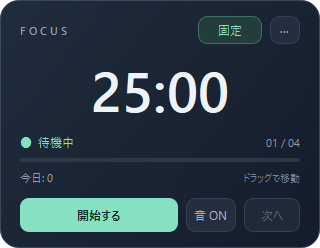
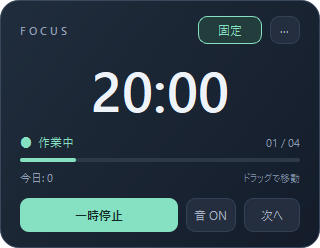
docs: 現在のWindows画面と追加作業のスクリーンショットに更新

diff --git a/scripts/capture_screenshots.py b/scripts/capture_screenshots.py
@@ -1,0 +1,96 @@
+"""WindowsでREADME用の実UIを撮影する。ユーザーの設定・履歴は読み書きしない。"""
+
+import argparse
+import sys
+from pathlib import Path
+
+from PyQt6.QtCore import Qt
+from PyQt6.QtWidgets import QApplication
+
+from src.engine.session import AppSettings, Phase
+from src.engine.timer_engine import TimerEngine
+from src.services.i18n_service import init
+from src.ui.appearance import apply_appearance
+from src.ui.timer_widget import TimerWidget
+
+
+def main() -> None:
+    parser = argparse.ArgumentParser(description=__doc__)
+    parser.add_argument("--output-dir", type=Path, default=Path("docs"))
+    args = parser.parse_args()
+    if sys.platform != "win32":
+        parser.error("WindowsのPythonで実行してください。")
+
+    QApplication.setHighDpiScaleFactorRoundingPolicy(
+        Qt.HighDpiScaleFactorRoundingPolicy.PassThrough
+    )
+    app = QApplication([])
+    apply_appearance(app)
+    init("ja")
+    settings = AppSettings()
+    settings.ui.window_opacity = 1.0
+    engine = TimerEngine(settings)
+    widget = TimerWidget(settings)
+    widget.on_start = engine.start
+    widget.on_extra_work = engine.toggle_extra_work
+    engine.tick.connect(widget.update_time)
+    engine.phase_changed.connect(
+        lambda phase, index: (
+            widget.update_phase(Phase(phase)),
+            widget.update_session_index(index),
+        )
+    )
+    engine.daily_count_updated.connect(widget.update_daily_count)
+    args.output_dir.mkdir(parents=True, exist_ok=True)
+
+    def capture(name: str, expected_time: str) -> None:
+        engine._qt_timer.stop()
+        app.processEvents()
+        assert widget._time_label.text() == expected_time
+        for child in (widget._time_label, widget._btn_container, widget._phase_label):
+            assert widget.rect().contains(child.geometry())
+        if widget._extra_work_btn.isVisible():
+            assert widget.rect().contains(widget._extra_work_btn.geometry())
+            assert (
+                widget._extra_work_btn.width()
+                >= widget._extra_work_btn.sizeHint().width()
+            )
+        target = args.output_dir / name
+        assert widget.grab().save(str(target)), target
+        print(f"Saved {target.name}: {expected_time}")
+
+    try:
+        widget.show()
+        app.processEvents()
+        widget._start_btn.click()
+        engine._qt_timer.stop()
+        # 撮影用に時間だけを進める。保存・通知・音声サービスには接続しない。
+        for _ in range(300):
+            engine._on_tick()
+        capture("focus-windows-preview.png", "20:00")
+
+        for _ in range(engine.remaining_sec):
+            engine._on_tick()
+        assert engine.phase == Phase.SHORT_BREAK
+        assert widget._extra_work_btn.text() == "作業を続ける"
+        capture("focus-windows-break.png", "05:00")
+
+        widget._extra_work_btn.click()
+        engine._qt_timer.stop()
+        for _ in range(125):
+            engine._on_tick()
+        assert engine.phase == Phase.EXTRA_WORK
+        assert widget._extra_work_btn.text() == "休憩に入る"
+        capture("focus-windows-extra-work.png", "+02:05")
+
+        widget._extra_work_btn.click()
+        assert engine.phase == Phase.SHORT_BREAK
+        assert engine.remaining_sec == settings.timers.short_break_min * 60
+        assert engine.state.daily_completed_count == 1
+    finally:
+        engine._qt_timer.stop()
+        widget.close()
+
+
+if __name__ == "__main__":
+    main()

diff --git a/README.md b/README.md
@@ -6,7 +6,9 @@ Focus Pomodoroはデスクトップに小さく表示して使うポモドーロ
 
 時間が来ても、もう少し作業を続けたいときは「作業を続ける」を押してください。追加の作業時間を計り、切りの良いところで「休憩に入る」を押すと、予定していた休憩を始められます。
 
-![Windowsで表示したFocus Pomodoro](docs/focus-windows-preview.png)
+![現在のWindows用UIで作業中のFocus Pomodoro](docs/focus-windows-preview.png)
+
+画像は現在のWindows用UIから撮影しています。表示している時間と完了数は撮影用の例です。
 
 このアプリはClaudeなどの生成AIとの協働で開発しています。コード・仕様書・ドキュメントの多くにAIを使用しています。利用は自己責任でお願いします。動作確認の範囲は[検証記録](docs/focus-validation.md)にまとめています。
 
@@ -33,6 +35,10 @@ Focus Pomodoroはデスクトップに小さく表示して使うポモドーロ
 追加作業中は、同じ位置のボタンが「休憩に入る」に変わります。もう一度押すと、もとの短休憩または長休憩が最初から始まります。追加作業を始める前に休憩時間が少し進んでいても、休憩は全時間ぶん確保されます。
 
 追加作業も一時停止・再開できます。「次へ」を押した場合も、予定していた休憩へ移ります。追加分は作業時間に加算されますが、ポモドーロの完了回数は増えません。追加作業をリセットした場合も、その時点までの作業時間を記録します。
+
+| 作業終了後 | 追加作業中 |
+| --- | --- |
+| ![短休憩の画面に表示された「作業を続ける」ボタン](docs/focus-windows-break.png) | ![追加時間と「休憩に入る」ボタン](docs/focus-windows-extra-work.png) |
 
 ## デスクトップでの表示を調整する
 

diff --git a/docs/focus-validation.md b/docs/focus-validation.md
@@ -56,3 +56,18 @@
 - デスクトップ・スタートメニュー・既存スタートアップの3ショートカットを新版へ更新し、リンク先を検証。元のリンクは配置先の `shortcut-backups` に保存。
 - 設定・履歴9ファイルのSHA-256をインストール前後・新版起動後で比較し、内容が変わっていないことを確認。
 - 旧版は25:00の待機表示を確認して終了し、新版を起動。実際の再ログインによる自動起動は未確認。
+
+## READMEのスクリーンショット更新（2026-11-01）
+
+- 現在のソースをWindowsのPythonで動かし、作業中20:00、短休憩05:00、追加作業+02:05の3画面を撮影。画像を目視し、文字・ボタンの表示を確認。
+- 撮影用のタイマーはメモリ内だけで動かし、ユーザーの設定・履歴・通知・音声サービスには接続しない。時間は撮影用に進め、実際のウィジェットをそのまま保存する。
+- 「作業を続ける」から追加作業へ入り、「休憩に入る」で5分の短休憩へ戻る操作、完了数が1のままであること、画面内に操作部分が収まることを撮影時に検査。
+- 撮影スクリプトのRuff check・format check、READMEの画像参照・PNGの読み込み・Git差分の空白検査を実施。アプリ本体は変更しておらず、全テストとEXEの再ビルドは実施していない。
+
+撮り直す場合は、Windowsのプロジェクト環境でリポジトリ直下から実行する。
+
+```powershell
+.\.venv\Scripts\python.exe -m scripts.capture_screenshots
+```
+
+既定の保存先は`docs/`。確認用の別フォルダに保存するときは`--output-dir build/readme-screenshots`を指定する。
